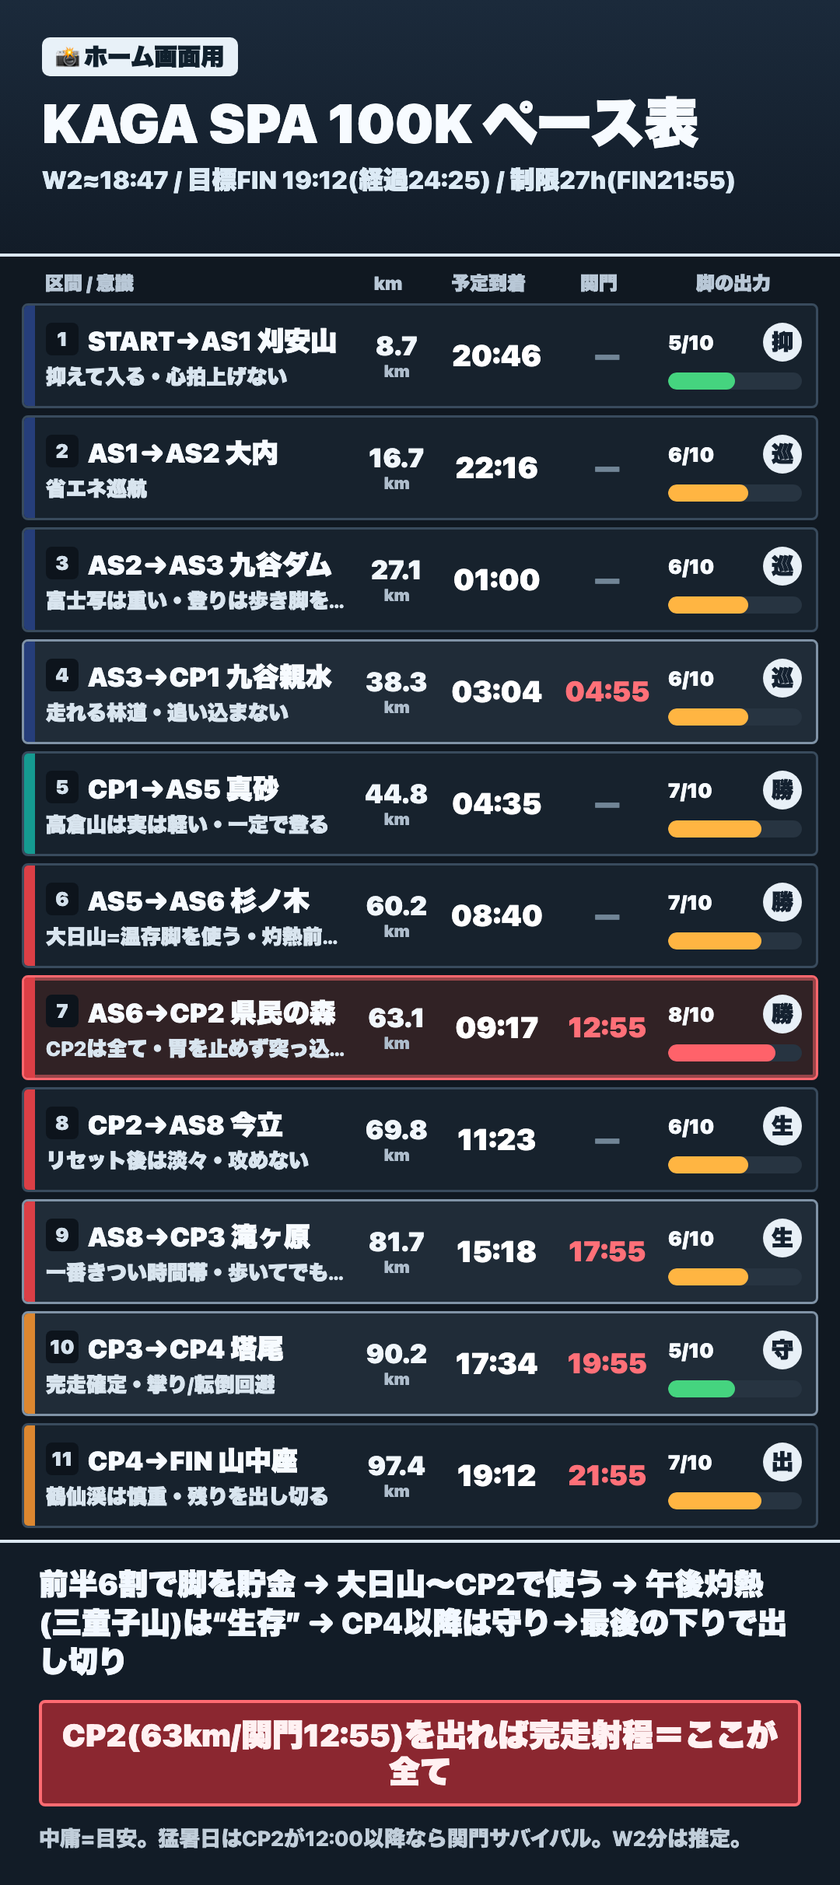
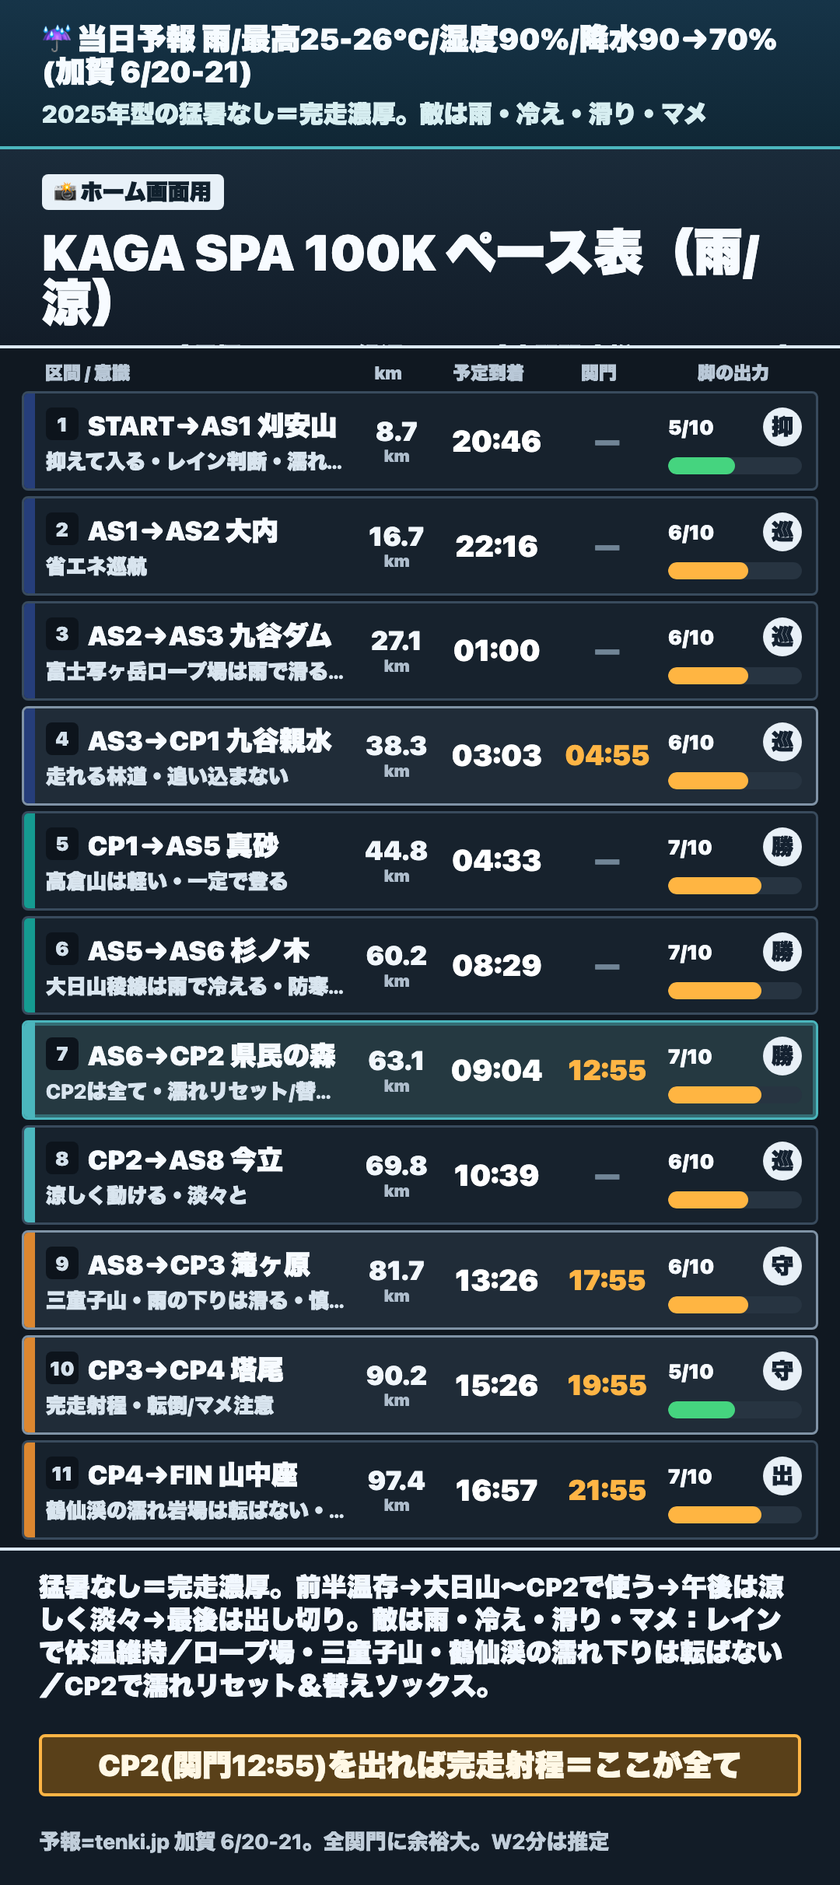
weather update: rain/cool race-day card (6/20-21, max 25-26C, rain); SW v5

diff --git a/index.html b/index.html
@@ -11,8 +11,8 @@
 :root{--bg:#121820;--panel:#19222d;--panel2:#202b38;--line:#354453;--text:#eef4f8;--muted:#aeb8c2;--green:#42d77d;--orange:#ffb545;--red:#ff5f66;--blue:#65a8ff;--teal:#31c7bd;--navy:#24365b}
 *{box-sizing:border-box}html{scroll-behavior:smooth}body{margin:0;background:var(--bg);color:var(--text);font-family:-apple-system,BlinkMacSystemFont,"Hiragino Sans","Noto Sans JP","Segoe UI",sans-serif;line-height:1.5;-webkit-text-size-adjust:100%}
 button{font:inherit}.top-note{position:sticky;top:0;z-index:5;background:#0d1117;color:#d8e1ea;border-bottom:1px solid var(--line);padding:7px 12px;text-align:center;font-size:.78rem}.wrap{max-width:1120px;margin:0 auto;padding:14px 12px 56px}.hero{background:linear-gradient(180deg,#1d2733,#141b24);border:2px solid #435466;border-radius:8px;padding:16px;margin-bottom:18px}.kicker,.subtle{color:var(--muted);font-size:.86rem}.hero h1{font-size:clamp(1.55rem,4.5vw,2.7rem);line-height:1.1;margin:.2rem 0 .5rem;letter-spacing:0}.lead{margin:0 0 14px;color:#d7e0e8;font-weight:700}.mode-bar{display:grid;grid-template-columns:1fr 1fr;gap:10px;margin:12px 0}.mode-btn,.cp-btn{min-height:48px;border:1px solid var(--line);border-radius:8px;background:var(--panel2);color:var(--text);font-weight:800}.mode-btn.active,.cp-btn.active{outline:3px solid var(--blue);background:#26384d}.mode-btn[data-mode=hot].active{outline-color:var(--red);background:#40242a}.hot-warning{border:2px solid var(--red);background:rgba(255,95,102,.12);border-radius:8px;padding:10px;font-weight:900;margin-bottom:12px}.select-title{font-size:.92rem;color:var(--muted);margin-bottom:8px}.cp-grid{display:grid;grid-template-columns:repeat(6,1fr);gap:8px}@media(max-width:720px){.cp-grid{grid-template-columns:repeat(3,1fr)}}.glance{display:grid;grid-template-columns:2fr repeat(4,1fr);gap:10px;margin:16px 0}.label{display:block;color:var(--muted);font-size:.78rem}.next-name{font-size:clamp(2rem,7vw,4.4rem);font-weight:950;line-height:1.02}.metric{background:#101720;border:1px solid var(--line);border-radius:8px;padding:10px}.metric strong{font-size:clamp(1.25rem,4vw,2.5rem);line-height:1.08}.metric.margin.green{border-color:var(--green);color:var(--green)}.metric.margin.orange{border-color:var(--orange);color:var(--orange)}.metric.margin.red{border-color:var(--red);color:var(--red)}@media(max-width:820px){.glance{grid-template-columns:1fr 1fr}.glance>div:first-child{grid-column:1/-1}}.action-grid{display:grid;grid-template-columns:1.2fr 1fr 1fr;gap:10px}.action-card{border:1px solid var(--line);background:var(--panel);border-radius:8px;padding:12px}.action-card h2{font-size:1rem;margin:0 0 8px}.immediate{border-color:var(--orange);background:rgba(255,181,69,.10)}.action-card p{margin:0;font-size:1.05rem;font-weight:800}.action-card dl{margin:0}.action-card dt{color:var(--muted);font-size:.78rem}.action-card dd{margin:0 0 6px;font-weight:800}@media(max-width:820px){.action-grid{grid-template-columns:1fr}}h2{letter-spacing:0}.section-guide,.reference{margin-top:24px}.section-guide>h2,.reference>h2{font-size:1.5rem;margin:0 0 4px}.legs{display:grid;gap:10px;margin-top:12px}.leg-card{border:1px solid var(--line);background:var(--panel);border-radius:8px;padding:12px}.leg-card.current{border-width:3px;border-color:var(--blue);box-shadow:0 0 0 2px rgba(101,168,255,.25)}.leg-card.night{border-left:7px solid var(--navy)}.leg-card.dawn{border-left:7px solid var(--teal)}.leg-card.heat{border-left:7px solid var(--red)}.leg-card.eve{border-left:7px solid var(--orange)}.leg-head{display:flex;gap:10px;align-items:center;flex-wrap:wrap}.leg-no{background:#0f151d;border:1px solid var(--line);border-radius:6px;padding:3px 7px;color:var(--muted)}.leg-head h3{font-size:1.15rem;margin:0;flex:1}.period{font-size:.78rem;border:1px solid var(--line);border-radius:999px;padding:2px 9px;color:var(--muted)}.spark-wrap{margin:8px 0}.spark{width:100%;height:46px;background:#101720;border-radius:6px}.spark polyline{stroke:#d5e8ff;stroke-width:3}.leg-metrics{display:grid;grid-template-columns:repeat(6,1fr);gap:6px}.leg-metrics span{background:#101720;border:1px solid var(--line);border-radius:6px;padding:6px;font-size:.82rem}.leg-main p{margin:.45rem 0}@media(max-width:820px){.leg-metrics{grid-template-columns:1fr 1fr}.leg-card.current .leg-head h3{font-size:1.55rem}.leg-card.current .leg-main p{font-size:1.05rem}}body.mode-mod .hot-only{display:none}details{border:1px solid var(--line);background:var(--panel);border-radius:8px;margin:10px 0;padding:10px}summary{cursor:pointer;font-weight:900;font-size:1.05rem}.profile,.route{width:100%;height:auto;margin-top:10px;background:#101720;border-radius:8px}.profile-line{stroke:#f4f7fb;stroke-width:3}.cp-line{stroke:rgba(255,255,255,.35);stroke-width:1}.cp-label{fill:#cbd6df;font-size:11px;text-anchor:middle}.peak-label{fill:#fff;font-size:14px;font-weight:800}.shade{opacity:.22}.shade.night{fill:#24365b}.shade.dawn{fill:#1a7f78}.shade.heat{fill:#b73540}.shade.eve{fill:#c47a28}.legend{display:flex;gap:10px;flex-wrap:wrap;color:var(--muted);font-size:.82rem}.table-wrap{overflow-x:auto}table{width:100%;border-collapse:collapse;min-width:720px}th,td{border-bottom:1px solid var(--line);padding:8px;text-align:right;white-space:nowrap}th:first-child,td:first-child{text-align:left}th{color:var(--muted);background:#101720}.ref-grid{display:grid;grid-template-columns:repeat(4,1fr);gap:10px}.ref-box{background:#101720;border:1px solid var(--line);border-radius:8px;padding:10px}.ref-box h3{margin:0 0 6px}.ref-box p{margin:0}.decision li{margin:.35rem 0}.route-line{stroke:#9fd0ff;stroke-width:3}.route-dot{fill:#ffcf5a;stroke:#111;stroke-width:1.5}footer{color:var(--muted);border-top:1px solid var(--line);margin-top:22px;padding-top:12px;font-size:.8rem}@media(max-width:820px){.ref-grid{grid-template-columns:1fr}.hero{padding:12px}.metric strong{font-size:1.4rem}}
-.shot-card{width:min(100%,540px);margin:0 auto 18px;background:#101821;border:2px solid #d6e2ec;border-radius:8px;color:#f6fbff;box-shadow:0 10px 28px rgba(0,0,0,.28);overflow:hidden;line-height:1.18}.shot-caption{background:#dce9f3;color:#10202d;font-size:.82rem;font-weight:900;padding:5px 10px}.shot-header{padding:8px 10px 7px;background:#172434;border-bottom:1px solid #415263}.shot-header h2{font-size:1.22rem;line-height:1.05;margin:0 0 3px;font-weight:950}.shot-header p{margin:0;color:#d7e7f5;font-size:.78rem;font-weight:800}.shot-table{padding:6px 7px 0}.shot-grid-head{display:grid;grid-template-columns:minmax(0,1fr) 38px 45px 45px 72px;gap:4px;color:#b8c9d6;font-size:.68rem;font-weight:900;padding:0 3px 3px 11px}.shot-grid-head span:nth-child(n+2){text-align:center}.shot-row{position:relative;display:grid;grid-template-columns:6px minmax(0,1fr) 38px 45px 45px 72px;gap:4px;align-items:center;min-height:47px;margin-bottom:4px;border:1px solid #334454;background:#17202a;border-radius:7px;overflow:hidden}.shot-row.cp-row{background:#202a35;border-color:#6d8294}.shot-row.cp2-all{background:#2c2224;border-color:#ff6b6b;box-shadow:inset 0 0 0 1px rgba(255,107,107,.45)}.shot-band{height:100%;align-self:stretch}.shot-row.night .shot-band{background:#263a68}.shot-row.dawn .shot-band{background:#1a9288}.shot-row.heat .shot-band{background:#d34747}.shot-row.eve .shot-band{background:#d88a2f}.shot-main{min-width:0;padding:4px 0}.shot-route{font-weight:950;font-size:.86rem;white-space:nowrap;overflow:hidden;text-overflow:ellipsis}.shot-num{display:inline-grid;place-items:center;width:17px;height:17px;margin-right:4px;border-radius:4px;background:#0d141c;color:#cad8e3;font-size:.66rem}.shot-focus{margin-top:2px;color:#d6e1ea;font-size:.71rem;font-weight:800;line-height:1.16}.shot-km,.shot-arr,.cutoff{text-align:center;font-weight:950;font-size:.84rem}.shot-km span{display:block;color:#aebdcc;font-size:.55rem;line-height:1}.cutoff.none{color:#6f8292}.cutoff.strong{color:#ff7272;font-size:.89rem}.shot-output{padding-right:5px}.shot-out-head{display:flex;align-items:baseline;justify-content:space-between;font-size:.7rem;font-weight:950}.shot-out-head span{display:inline-grid;place-items:center;min-width:20px;height:20px;border-radius:50%;background:#e6eef5;color:#162331;font-size:.74rem}.shot-bar{height:9px;margin-top:3px;background:#273340;border-radius:999px;overflow:hidden}.shot-bar span{display:block;height:100%;border-radius:999px}.shot-bar.low span{background:#43d17d}.shot-bar.mid span{background:#ffb545}.shot-bar.high span{background:#ff626a}.shot-footer{border-top:1px solid #415263;margin:3px 7px 0;padding:7px 3px 8px;color:#eef7ff}.shot-footer p{margin:0;font-weight:900;font-size:.78rem;line-height:1.22}.shot-footer .shot-cp2{margin-top:4px;color:#ffeded;background:#84282f;border:1px solid #ff6868;border-radius:6px;padding:4px 6px;text-align:center;font-size:.84rem}.shot-footer .shot-note{margin-top:5px;color:#bfcbd6;font-size:.64rem;font-weight:700}.shot-card footer{border-top:1px solid #415263}
-@media(max-width:420px){.wrap{padding:8px 6px 44px}.shot-card{border-width:1px}.shot-caption{font-size:.72rem;padding:4px 8px}.shot-header{padding:6px 8px}.shot-header h2{font-size:1.05rem}.shot-header p{font-size:.68rem}.shot-table{padding:5px 5px 0}.shot-grid-head{grid-template-columns:minmax(0,1fr) 33px 40px 40px 62px;font-size:.58rem;gap:3px;padding-left:9px}.shot-row{grid-template-columns:5px minmax(0,1fr) 33px 40px 40px 62px;gap:3px;min-height:41px;margin-bottom:3px}.shot-route{font-size:.74rem}.shot-focus{font-size:.62rem}.shot-km,.shot-arr,.cutoff{font-size:.72rem}.cutoff.strong{font-size:.76rem}.shot-out-head{font-size:.6rem}.shot-out-head span{min-width:17px;height:17px;font-size:.64rem}.shot-bar{height:8px}.shot-footer p{font-size:.68rem}.shot-footer .shot-cp2{font-size:.73rem;padding:3px 5px}.shot-footer .shot-note{font-size:.57rem}}
+.shot-card{width:min(100%,540px);margin:0 auto 18px;background:#101821;border:2px solid #d6e2ec;border-radius:8px;color:#f6fbff;box-shadow:0 10px 28px rgba(0,0,0,.28);overflow:hidden;line-height:1.18}.shot-weather{background:#123447;border-bottom:1px solid #4bb6bd;color:#f7fbff;padding:7px 10px 6px}.shot-weather b{display:block;font-size:.75rem;line-height:1.15}.shot-weather span{display:block;margin-top:3px;color:#d8eef0;font-size:.7rem;font-weight:900;line-height:1.15}.shot-caption{background:#dce9f3;color:#10202d;font-size:.78rem;font-weight:900;padding:4px 10px}.shot-header{padding:8px 10px 7px;background:#172434;border-bottom:1px solid #415263}.shot-header h2{font-size:1.18rem;line-height:1.05;margin:0 0 3px;font-weight:950}.shot-header p{margin:0;color:#d7e7f5;font-size:.72rem;font-weight:800}.shot-table{padding:6px 7px 0}.shot-grid-head{display:grid;grid-template-columns:minmax(0,1fr) 38px 45px 45px 72px;gap:4px;color:#b8c9d6;font-size:.68rem;font-weight:900;padding:0 3px 3px 11px}.shot-grid-head span:nth-child(n+2){text-align:center}.shot-row{position:relative;display:grid;grid-template-columns:6px minmax(0,1fr) 38px 45px 45px 72px;gap:4px;align-items:center;min-height:47px;margin-bottom:4px;border:1px solid #334454;background:#17202a;border-radius:7px;overflow:hidden}.shot-row.cp-row{background:#202a35;border-color:#6d8294}.shot-row.cp2-all{background:#253941;border-color:#4bb6bd;box-shadow:inset 0 0 0 1px rgba(75,182,189,.46)}.shot-band{height:100%;align-self:stretch}.shot-row.night .shot-band{background:#263a68}.shot-row.dawn .shot-band{background:#1a9288}.shot-row.morning .shot-band{background:#4bb6bd}.shot-row.heat .shot-band{background:#4bb6bd}.shot-row.eve .shot-band{background:#d88a2f}.shot-main{min-width:0;padding:4px 0}.shot-route{font-weight:950;font-size:.86rem;white-space:nowrap;overflow:hidden;text-overflow:ellipsis}.shot-num{display:inline-grid;place-items:center;width:17px;height:17px;margin-right:4px;border-radius:4px;background:#0d141c;color:#cad8e3;font-size:.66rem}.shot-focus{margin-top:2px;color:#d6e1ea;font-size:.71rem;font-weight:800;line-height:1.16}.shot-km,.shot-arr,.cutoff{text-align:center;font-weight:950;font-size:.84rem}.shot-km span{display:block;color:#aebdcc;font-size:.55rem;line-height:1}.cutoff.none{color:#6f8292}.cutoff.strong{color:#ffb545;font-size:.89rem}.shot-output{padding-right:5px}.shot-out-head{display:flex;align-items:baseline;justify-content:space-between;font-size:.7rem;font-weight:950}.shot-out-head span{display:inline-grid;place-items:center;min-width:20px;height:20px;border-radius:50%;background:#e6eef5;color:#162331;font-size:.74rem}.shot-bar{height:9px;margin-top:3px;background:#273340;border-radius:999px;overflow:hidden}.shot-bar span{display:block;height:100%;border-radius:999px}.shot-bar.low span{background:#43d17d}.shot-bar.mid span{background:#ffb545}.shot-bar.high span{background:#4bb6bd}.shot-footer{border-top:1px solid #415263;margin:3px 7px 0;padding:7px 3px 8px;color:#eef7ff}.shot-footer p{margin:0;font-weight:900;font-size:.69rem;line-height:1.2}.shot-footer .shot-cp2{margin-top:4px;color:#fff8e6;background:#594019;border:1px solid #ffb545;border-radius:6px;padding:4px 6px;text-align:center;font-size:.78rem}.shot-footer .shot-note{margin-top:5px;color:#bfcbd6;font-size:.6rem;font-weight:700}.shot-card footer{border-top:1px solid #415263}
+@media(max-width:420px){.wrap{padding:8px 6px 44px}.shot-card{border-width:1px}.shot-weather{padding:5px 8px}.shot-weather b{font-size:.65rem}.shot-weather span{font-size:.61rem}.shot-caption{font-size:.68rem;padding:3px 8px}.shot-header{padding:6px 8px}.shot-header h2{font-size:.98rem}.shot-header p{font-size:.58rem}.shot-table{padding:5px 5px 0}.shot-grid-head{grid-template-columns:minmax(0,1fr) 33px 40px 40px 62px;font-size:.58rem;gap:3px;padding-left:9px}.shot-row{grid-template-columns:5px minmax(0,1fr) 33px 40px 40px 62px;gap:3px;min-height:41px;margin-bottom:3px}.shot-route{font-size:.74rem}.shot-focus{font-size:.62rem}.shot-km,.shot-arr,.cutoff{font-size:.72rem}.cutoff.strong{font-size:.76rem}.shot-out-head{font-size:.6rem}.shot-out-head span{min-width:17px;height:17px;font-size:.64rem}.shot-bar{height:8px}.shot-footer p{font-size:.58rem}.shot-footer .shot-cp2{font-size:.68rem;padding:3px 5px}.shot-footer .shot-note{font-size:.52rem}}
 
 </style>
 </head>
@@ -27,10 +27,11 @@ Network-free assets only; CSS, SVG, and JavaScript are embedded in the document.
 <header class="top-note">レース前にスマホ保存→Safari/Chromeで開く→機内モードで開けるか検証</header>
 <main class="wrap">
   <section id="shot-card" class="shot-card" aria-labelledby="shot-title">
+    <div class="shot-weather"><b>☔ 当日予報 雨/最高25-26℃/湿度90%/降水90→70%(加賀 6/20-21)</b><span>2025年型の猛暑なし＝完走濃厚。敵は雨・冷え・滑り・マメ</span></div>
     <div class="shot-caption">📸 この枠をスクショ→ホーム画面用に</div>
     <header class="shot-header">
-      <h2 id="shot-title">KAGA SPA 100K ペース表</h2>
-      <p>W2≈18:47スタート ／ 目標FIN 19:12（経過24:25） ／ 制限27h(関門21:55)</p>
+      <h2 id="shot-title">KAGA SPA 100K ペース表（雨/涼）</h2>
+      <p>W2≈18:47 ／ 目標FIN 16:57(経過22:10) ／ 全関門 余裕1:52〜4:58 ／ 制限27h</p>
     </header>
     <div class="shot-table" role="table" aria-label="エイド予定表">
       <div class="shot-grid-head" role="row">
@@ -40,7 +41,7 @@ Network-free assets only; CSS, SVG, and JavaScript are embedded in the document.
       <div class="shot-band" aria-hidden="true"></div>
       <div class="shot-main">
         <div class="shot-route"><span class="shot-num">1</span>START→AS1 刈安山</div>
-        <div class="shot-focus">抑えて入る・心拍上げない</div>
+        <div class="shot-focus">抑えて入る・レイン判断・濡れで冷やさない</div>
       </div>
       <div class="shot-km">8.7<span>km</span></div>
       <div class="shot-arr">20:46</div>
@@ -68,7 +69,7 @@ Network-free assets only; CSS, SVG, and JavaScript are embedded in the document.
       <div class="shot-band" aria-hidden="true"></div>
       <div class="shot-main">
         <div class="shot-route"><span class="shot-num">3</span>AS2→AS3 九谷ダム</div>
-        <div class="shot-focus">富士写は重い・登りは歩き脚を売らない</div>
+        <div class="shot-focus">富士写ヶ岳ロープ場は雨で滑る・慎重に脚を売らない</div>
       </div>
       <div class="shot-km">27.1<span>km</span></div>
       <div class="shot-arr">01:00</div>
@@ -85,7 +86,7 @@ Network-free assets only; CSS, SVG, and JavaScript are embedded in the document.
         <div class="shot-focus">走れる林道・追い込まない</div>
       </div>
       <div class="shot-km">38.3<span>km</span></div>
-      <div class="shot-arr">03:04</div>
+      <div class="shot-arr">03:03</div>
       <div class=" cutoff strong">04:55</div>
       <div class="shot-output">
         <div class="shot-out-head"><b>6/10</b><span>巡</span></div>
@@ -96,69 +97,69 @@ Network-free assets only; CSS, SVG, and JavaScript are embedded in the document.
       <div class="shot-band" aria-hidden="true"></div>
       <div class="shot-main">
         <div class="shot-route"><span class="shot-num">5</span>CP1→AS5 真砂</div>
-        <div class="shot-focus">高倉山は実は軽い・一定で登る</div>
+        <div class="shot-focus">高倉山は軽い・一定で登る</div>
       </div>
       <div class="shot-km">44.8<span>km</span></div>
-      <div class="shot-arr">04:35</div>
+      <div class="shot-arr">04:33</div>
       <div class=" cutoff none">—</div>
       <div class="shot-output">
         <div class="shot-out-head"><b>7/10</b><span>勝</span></div>
         <div class="shot-bar mid"><span style="width:70%"></span></div>
       </div>
     </div>
-<div class="shot-row heat">
+<div class="shot-row dawn">
       <div class="shot-band" aria-hidden="true"></div>
       <div class="shot-main">
         <div class="shot-route"><span class="shot-num">6</span>AS5→AS6 杉ノ木</div>
-        <div class="shot-focus">大日山=温存脚を使う・灼熱前に登り切る</div>
+        <div class="shot-focus">大日山稜線は雨で冷える・防寒/レイン・水は適量</div>
       </div>
       <div class="shot-km">60.2<span>km</span></div>
-      <div class="shot-arr">08:40</div>
+      <div class="shot-arr">08:29</div>
       <div class=" cutoff none">—</div>
       <div class="shot-output">
         <div class="shot-out-head"><b>7/10</b><span>勝</span></div>
         <div class="shot-bar mid"><span style="width:70%"></span></div>
       </div>
     </div>
-<div class="shot-row heat cp-row cp2-all">
+<div class="shot-row morning cp-row cp2-all">
       <div class="shot-band" aria-hidden="true"></div>
       <div class="shot-main">
         <div class="shot-route"><span class="shot-num">7</span>AS6→CP2 県民の森</div>
-        <div class="shot-focus">CP2は全て・胃を止めず突っ込む</div>
+        <div class="shot-focus">CP2は全て・濡れリセット/替えソックス</div>
       </div>
       <div class="shot-km">63.1<span>km</span></div>
-      <div class="shot-arr">09:17</div>
+      <div class="shot-arr">09:04</div>
       <div class=" cutoff strong">12:55</div>
       <div class="shot-output">
-        <div class="shot-out-head"><b>8/10</b><span>勝</span></div>
-        <div class="shot-bar high"><span style="width:80%"></span></div>
+        <div class="shot-out-head"><b>7/10</b><span>勝</span></div>
+        <div class="shot-bar mid"><span style="width:70%"></span></div>
       </div>
     </div>
-<div class="shot-row heat">
+<div class="shot-row morning">
       <div class="shot-band" aria-hidden="true"></div>
       <div class="shot-main">
         <div class="shot-route"><span class="shot-num">8</span>CP2→AS8 今立</div>
-        <div class="shot-focus">リセット後は淡々・攻めない</div>
+        <div class="shot-focus">涼しく動ける・淡々と</div>
       </div>
       <div class="shot-km">69.8<span>km</span></div>
-      <div class="shot-arr">11:23</div>
+      <div class="shot-arr">10:39</div>
       <div class=" cutoff none">—</div>
       <div class="shot-output">
-        <div class="shot-out-head"><b>6/10</b><span>生</span></div>
+        <div class="shot-out-head"><b>6/10</b><span>巡</span></div>
         <div class="shot-bar mid"><span style="width:60%"></span></div>
       </div>
     </div>
-<div class="shot-row heat cp-row">
+<div class="shot-row eve cp-row">
       <div class="shot-band" aria-hidden="true"></div>
       <div class="shot-main">
         <div class="shot-route"><span class="shot-num">9</span>AS8→CP3 滝ヶ原</div>
-        <div class="shot-focus">一番きつい時間帯・歩いてでも前進</div>
+        <div class="shot-focus">三童子山・雨の下りは滑る・慎重に</div>
       </div>
       <div class="shot-km">81.7<span>km</span></div>
-      <div class="shot-arr">15:18</div>
+      <div class="shot-arr">13:26</div>
       <div class=" cutoff strong">17:55</div>
       <div class="shot-output">
-        <div class="shot-out-head"><b>6/10</b><span>生</span></div>
+        <div class="shot-out-head"><b>6/10</b><span>守</span></div>
         <div class="shot-bar mid"><span style="width:60%"></span></div>
       </div>
     </div>
@@ -166,10 +167,10 @@ Network-free assets only; CSS, SVG, and JavaScript are embedded in the document.
       <div class="shot-band" aria-hidden="true"></div>
       <div class="shot-main">
         <div class="shot-route"><span class="shot-num">10</span>CP3→CP4 塔尾</div>
-        <div class="shot-focus">完走確定・攣り/転倒回避</div>
+        <div class="shot-focus">完走射程・転倒/マメ注意</div>
       </div>
       <div class="shot-km">90.2<span>km</span></div>
-      <div class="shot-arr">17:34</div>
+      <div class="shot-arr">15:26</div>
       <div class=" cutoff strong">19:55</div>
       <div class="shot-output">
         <div class="shot-out-head"><b>5/10</b><span>守</span></div>
@@ -180,10 +181,10 @@ Network-free assets only; CSS, SVG, and JavaScript are embedded in the document.
       <div class="shot-band" aria-hidden="true"></div>
       <div class="shot-main">
         <div class="shot-route"><span class="shot-num">11</span>CP4→FIN 山中座</div>
-        <div class="shot-focus">鶴仙渓は慎重・残りを出し切る</div>
+        <div class="shot-focus">鶴仙渓の濡れ岩場は転ばない・出し切り</div>
       </div>
       <div class="shot-km">97.4<span>km</span></div>
-      <div class="shot-arr">19:12</div>
+      <div class="shot-arr">16:57</div>
       <div class=" cutoff strong">21:55</div>
       <div class="shot-output">
         <div class="shot-out-head"><b>7/10</b><span>出</span></div>
@@ -192,9 +193,9 @@ Network-free assets only; CSS, SVG, and JavaScript are embedded in the document.
     </div>
     </div>
     <footer class="shot-footer">
-      <p>前半は6割で脚を貯金 → 大日山〜CP2で使う → 午後灼熱(三童子山)は“生存” → CP4以降は守り→最後の下りで出し切り</p>
-      <p class="shot-cp2">CP2(63km/関門12:55)を出れば完走射程＝ここが全て</p>
-      <p class="shot-note">中庸=最有力の目安。猛暑日は各到着が遅れ、CP2が12:00以降なら関門サバイバルへ。W2の分は推定</p>
+      <p>猛暑なし＝完走濃厚。前半温存→大日山〜CP2で使う→午後は涼しく淡々→最後は出し切り。<b>敵は雨・冷え・滑り・マメ</b>：レインで体温維持／ロープ場・三童子山・鶴仙渓の濡れ下りは転ばない／CP2で濡れリセット＆替えソックス。</p>
+      <p class="shot-cp2">CP2(関門12:55)を出れば完走射程＝ここが全て</p>
+      <p class="shot-note">予報=tenki.jp 加賀 6/20-21。全関門に余裕大。W2分は推定</p>
     </footer>
   </section>
 

diff --git a/sw.js b/sw.js
@@ -1,4 +1,4 @@
-const CACHE_NAME = 'kagaspa-dashboard-v4';
+const CACHE_NAME = 'kagaspa-dashboard-v5';
 const ASSETS = ['./', './index.html', './manifest.webmanifest', './kagaspa_race_card_pixel9a.png'];
 self.addEventListener('install', event => {
   event.waitUntil(caches.open(CACHE_NAME).then(cache => cache.addAll(ASSETS)));
